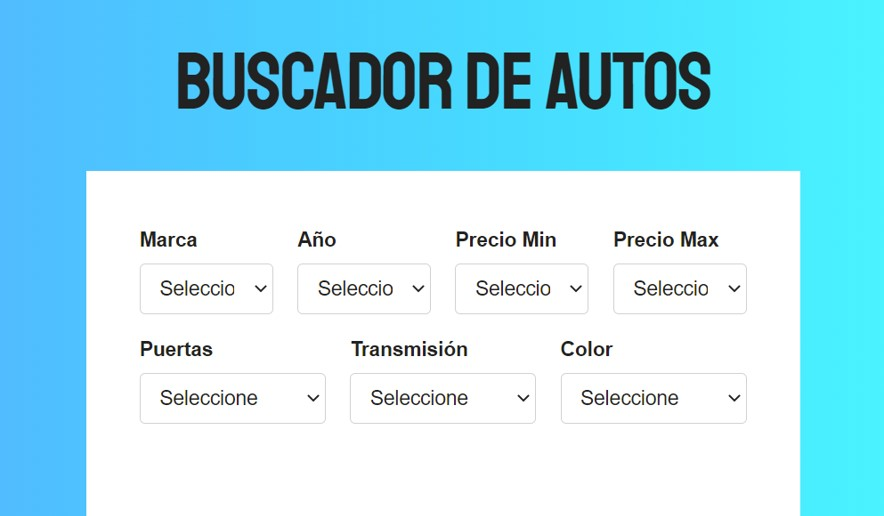
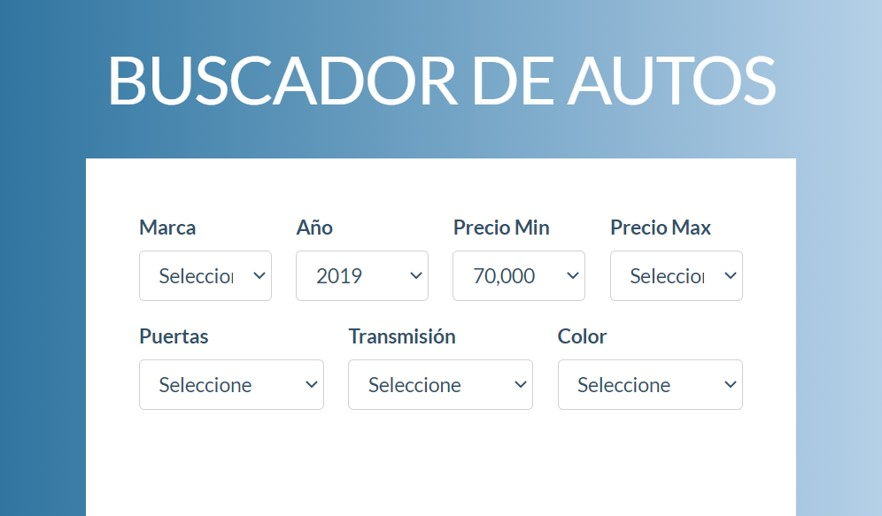
Cambios a apariencia de proyecto 7: buscador

diff --git a/index.html b/index.html
@@ -75,8 +75,7 @@
                 <img src="img/index/proyecto5.jpg" alt="" class="proyecto__imagen">
                 <h3 class="proyecto__titulo"> <a href="pages/carrito/carrito.html"> Proyecto 5 </a></h3>
                 <p class="proyecto__descripcion">
-                    Primer proyecto con JavaScript: carrito interactivo de compras de página de cursos. HTML y CSS
-                    realizado por Juan Pablo De la torre Valdez para el curso Código Con Juan de JavaScript Moderno.
+                    Primer proyecto con JavaScript: carrito interactivo de compras de página de cursos.
                 </p>
 
                 <ul class="habilidades">
@@ -89,8 +88,7 @@
                 <h3 class="proyecto__titulo"> <a href="pages/enviarEmail.html"> Proyecto 6 </a></h3>
                 <p class="proyecto__descripcion">
                     Segundo proyecto con JavaScript: página web que emula el envío de un correo, validando los campos
-                    necesarios. HTML y CSS realizado por Juan Pablo De la torre Valdez para el curso Código Con Juan de
-                    JavaScript Moderno.
+                    necesarios.
                 </p>
 
                 <ul class="habilidades">
@@ -103,8 +101,7 @@
                 <h3 class="proyecto__titulo"> <a href="pages/buscador.html"> Proyecto 7 </a></h3>
                 <p class="proyecto__descripcion">
                     Tercer proyecto con JavaScript: listado de autos con filtros para marca, año, precio, número de
-                    puertas, transmisión y color. HTML y CSS realizado por Juan Pablo De la torre Valdez para el curso
-                    Código Con Juan de JavaScript Moderno.
+                    puertas, transmisión y color.
                 </p>
 
                 <ul class="habilidades">
@@ -183,7 +180,8 @@
                 <img src="img/index/proyecto13.jpg" alt="" class="proyecto__imagen">
                 <h3 class="proyecto__titulo"> <a href="pages/crm/index.html"> Proyecto 13 </a></h3>
                 <p class="proyecto__descripcion">
-                    Octavo proyecto con JavaScript: administrador de clientes con CRUD en indexedDB. HTML y CSS realizado por Juan Pablo De la torre Valdez para el curso Código
+                    Octavo proyecto con JavaScript: administrador de clientes con CRUD en indexedDB. HTML y CSS
+                    realizado por Juan Pablo De la torre Valdez para el curso Código
                     Con Juan de JavaScript Moderno.
                 </p>
 

diff --git a/css/buscador/app.css b/css/buscador/app.css
@@ -1,6 +1,6 @@
 body {
-    background-image: linear-gradient(to right, #4facfe 0%, #00f2fe 100%);
-    font-family: 'Staatliches', cursive;
+    background: linear-gradient(to right, #025D8C, #B3CFE6);
+    font-family: 'Lato', sans-serif;
 }
 
 html {
@@ -8,14 +8,20 @@ html {
 }
 
 h1 {
-    font-family: 'Staatliches', cursive;
-    font-size: 6rem;
+    font-family: 'Lato', sans-serif;
+    font-weight: bold;
+    font-size: 4rem;
     padding: 3rem 0;
     margin: 0;
 }
 
+#buscador-titulo {
+    color: #fff;
+}
+
 .container {
     background-color: white;
+    color: #2E506B;
     max-width: 1200px;
     margin: 0 auto;
 }
@@ -34,14 +40,13 @@ form {
     margin: 0 auto;
     padding: 4rem;
     background: white;
-    margin-bottom: 10rem;
-    font-family: Arial, Helvetica, sans-serif;
+    font-family: 'Lato', sans-serif;
 }
 
 #app p {
     text-align: left !important;
     font-size: 2rem;
-    font-family: Arial, Helvetica, sans-serif;
+    font-family: 'Lato', sans-serif;
 }
 
 #resultado p {

diff --git a/pages/buscador.html b/pages/buscador.html
@@ -19,7 +19,7 @@
 
     <div class="contenedor">
 
-        <h1>Buscador de Autos</h1>
+        <h1 id="buscador-titulo">BUSCADOR DE AUTOS</h1>
 
         <div class="container">
 
@@ -103,13 +103,9 @@
                     </div>
                 </div>
             </form>
-
-
-            <h1>Resultados</h1>
+            <h1>RESULTADOS</h1>
             <div id="resultado"></div>
         </div>
-
-        <a class="sitio-web" href="https://www.codigoconjuan.com" rel="nofollow noopener noreferrer">Código Con Juan</a>
     </div>
 
     <script src="../js/buscador/db.js"></script>
